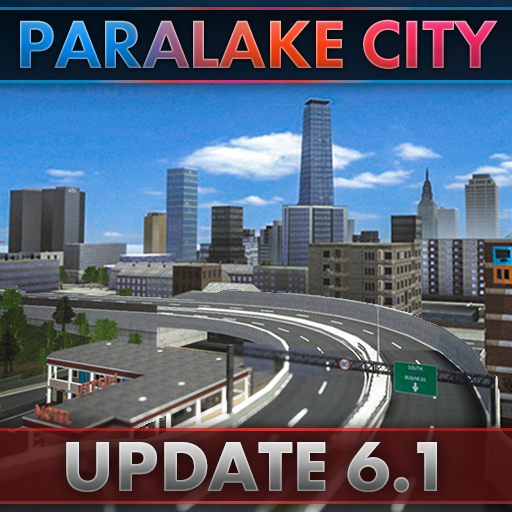
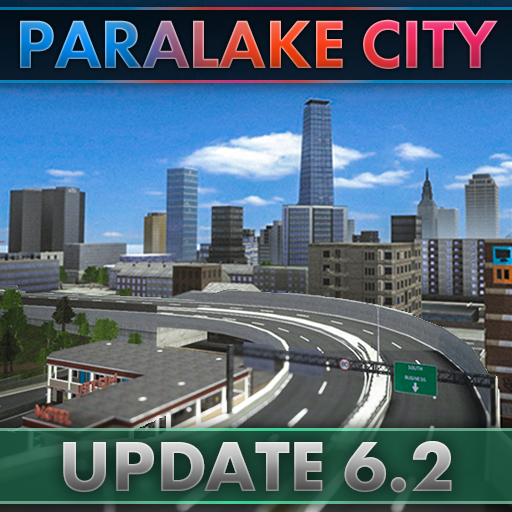
Update downloads for 6.2

Changed region(s): [[0.0, 0.8125, 1.0, 1.0]]

diff --git a/public/downloads.html b/public/downloads.html
@@ -57,14 +57,14 @@
         </div>
       </div>       
         
-    <div id="page-container" style="background-image: url('images_excluded/bg07.png');">
+    <div id="page-container" style="background-image: url('images_excluded/bg08.png');">
         <div id="downloads-container">
             <h1>Downloads</h1>
             <div class="download-item-map">
                 <img src="images_excluded/rp_paralake_city_v6.png">
                 <div class="download-info" style="background-color: #0000005d; padding: var(--spacing-small); padding-right: 20px; border-radius: var(--border-radius); min-height: 378px;">
                     <h1>Paralake City V6</h1>
-                    <p>Update 6.1 out now: overhauled Forest District, updated Bazaar, new properties, and much more!</p><br>
+                    <p>Update 6.2 out now: new properties, enhancements, visual improvements and more!</p><br>
                     Bigger, more detailed,
                     but still distinctly Paralake.  Experience a
                     roleplaying map designed for

diff --git a/public/archive.html b/public/archive.html
@@ -30,14 +30,14 @@
         <div class="popup-container">
             <button class="popup-close" onclick="closePopup()">&times;</button>
             <div class="popup-image">
-                <img src="images_excluded/winter_splash.jpg">
+                <img src="images_excluded/update2_bazaar.jpg">
             </div>
             <div class="popup-content">
-                <div class="popup-header">Paralake V6 Winter</div>
+                <div class="popup-header">Paralake V6.2</div>
                 <div class="popup-text">
-                    A cold wind has blown over Paralake,
-                    bringing with it snow, ice, and many festive decorations.  
-                    Cozy up and explore Paralake City in the winter!
+                    The second major update for Paralake V6 is here.
+                    New properties, quality of life improvements, visual enhancements
+                    and lots more changes.  Check out Paralake V6.2 now!
                     <br>
                     <br>
                     <br>

diff --git a/public/css/splashscreen.css b/public/css/splashscreen.css
@@ -11,7 +11,7 @@ body {
     height: 100%;
     background: rgba(0, 0, 0, 0.5);
     /* set display to flex to enable, none to disable */
-    display: none;
+    display: flex;
     align-items: center;
     justify-content: center;
     z-index: 10000;
